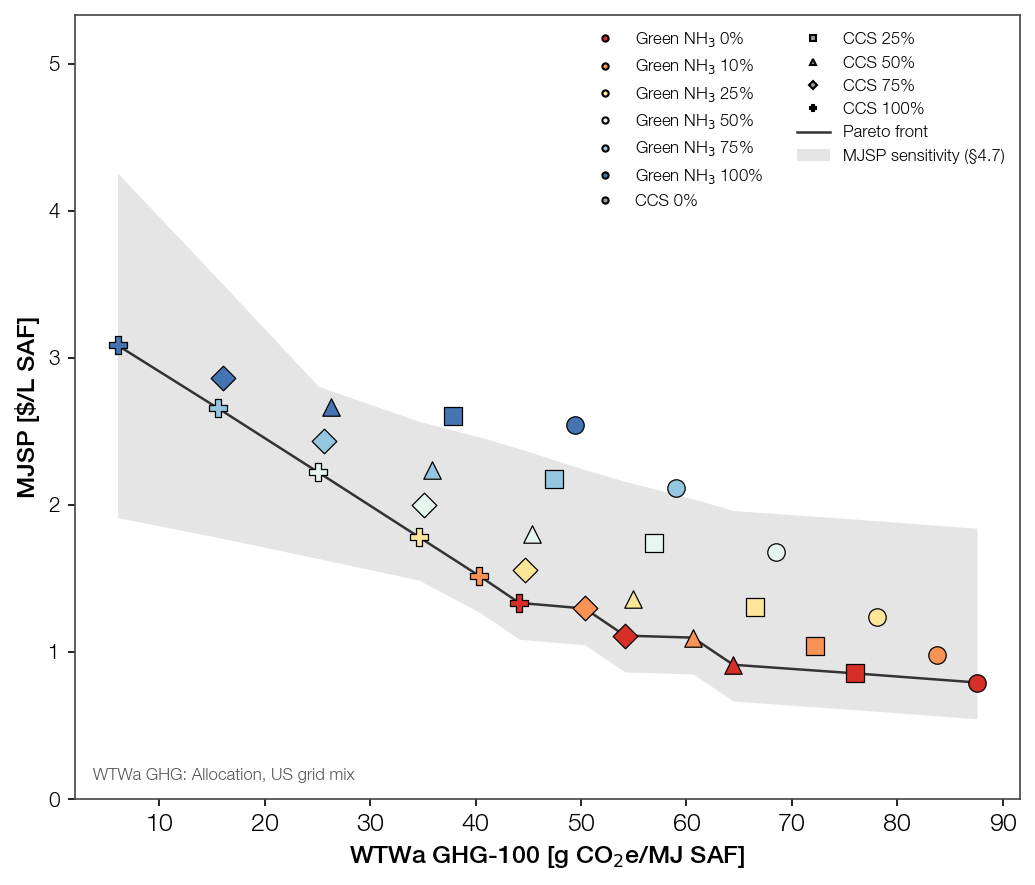
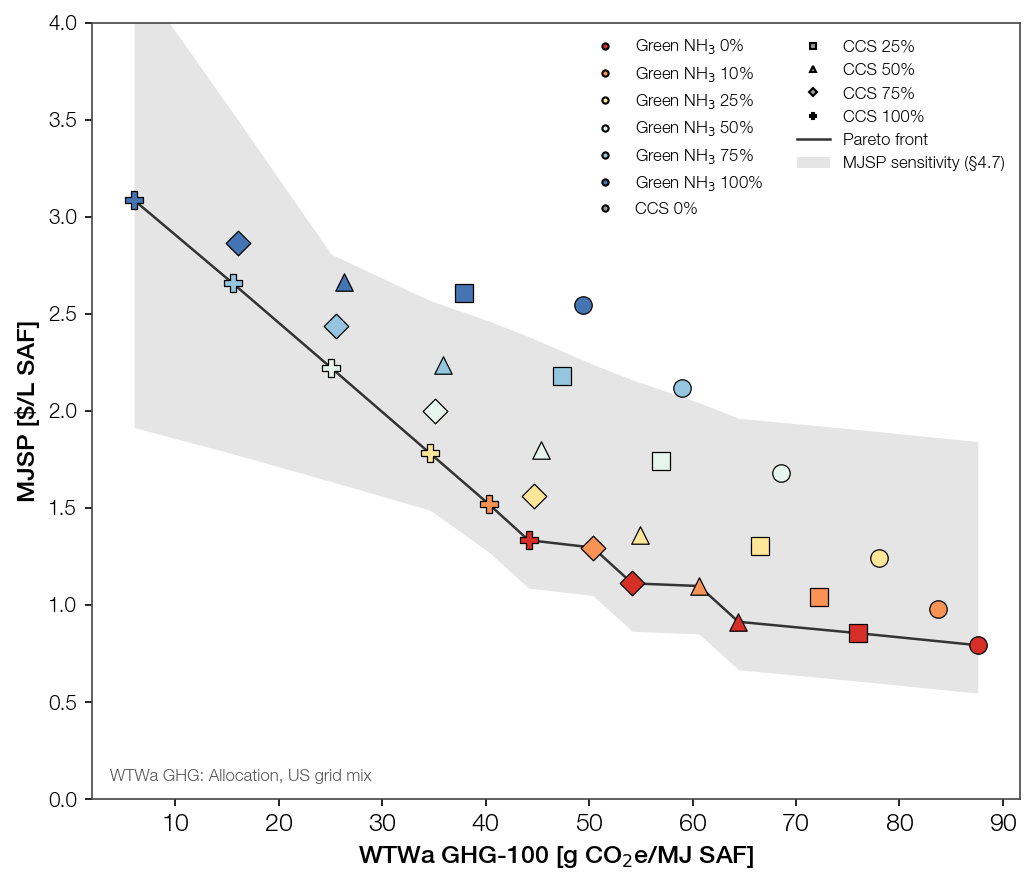
Add CCS 25% vs Green NH3 25% MJSP tornado comparison
Split per-driver bar logic out of mjsp_error into mix_bars (single source
for the frontier band and the tornado panels); add tornado_compare drawing
grey-H2+CCS 25% vs Green NH3 25%, reusing tea_tornado.tornado.

diff --git a/tea_pareto_front.py b/tea_pareto_front.py
@@ -68,7 +68,7 @@ def mjsp(tea: TEA, a: float, c: float) -> float:
 # source of truth; adapted here to Mix frontier points (partial grey + partial ammonia).
 from tea_tornado import (H2_RANGE, ELEC_F, COPROD_F, CAPEX_PM,
                          CF_HOURS, TS_RANGE, TS_BASE, AMM_FEED_USD_L, AMM_P_BASE,
-                         AMM_PRICE, LB2KG, raw_costs)
+                         AMM_PRICE, LB2KG, raw_costs, tornado)
 
 
 def mix_row(tea: TEA, a: float, c: float) -> tuple[float, pd.Series, float]:
@@ -91,41 +91,67 @@ def rerun_mix(a: float, c: float, **knobs) -> float:
     return mix_row(t, a, c)[0]
 
 
-def mjsp_error(tea: TEA, a: float, c: float, h2_cost: float, h2_rate: float,
-               bio_cost: float, op: float) -> tuple[float, float, float]:
-    """(base, min, max) MJSP over the tornado drivers applicable to a Mix point.
-    Envelope of one-at-a-time swings; grey-H2 scales with (1-a), ammonia with a,
-    T&S/electricity/co-product/capacity re-run, biomass/CAPEX linear."""
+def mix_bars(tea: TEA, a: float, c: float, h2_cost: float, h2_rate: float,
+             bio_cost: float, op: float) -> tuple[float, list[tuple[str, float, float]]]:
+    """(base, per-driver tornado bars) for a Mix point. Bars = [(label, MJSP@low, MJSP@high)];
+    grey-H2 scales with (1-a), ammonia with a, T&S/electricity/co-product/capacity re-run,
+    biomass/CAPEX linear. Single source for both the frontier band and the tornado panels."""
     base, row, saf = mix_row(tea, a, c)
-    ends = [base]
+    bars: list[tuple[str, float, float]] = []
     # Biomass price range = supply-curve price-model span at this x10 plant (0.457 MMt/yr
     # SAF): FR-price floor 0.04865 $/lb (base) up to the galik supply-curve 0.05268 $/lb
     # (+8.3%). One-sided (FR is the floor); replaces the generic +-50% swing.
     d_bio = (BIO_PRICE_HI / BIO_PRICE_FR - 1.) * bio_cost * op / saf
-    ends += [base, base + d_bio]
+    bars.append(('Biomass +8.3%', base, base + d_bio))
     if a < 1:                                                    # gray H2 on the grey share
         p_kg = (h2_cost / h2_rate) / LB2KG
         h2_term = h2_cost * (1 - a) * op / saf
         lo, hi = H2_RANGE
-        ends += [base + (lo / p_kg - 1.) * h2_term, base + (hi / p_kg - 1.) * h2_term]
+        bars.append(('Gray H₂ 1–4 $/kg', base + (lo / p_kg - 1.) * h2_term, base + (hi / p_kg - 1.) * h2_term))
     if a > 0:                                                    # ammonia price on the ammonia share
         lo, hi = AMM_PRICE
-        ends += [base + a * AMM_FEED_USD_L * (lo / AMM_P_BASE - 1.),
-                 base + a * AMM_FEED_USD_L * (hi / AMM_P_BASE - 1.)]
-    ends += [base - CAPEX_PM * row['capital investment'],        # CAPEX +-30% (Mix cap inv, incl CCS)
-             base + CAPEX_PM * row['capital investment']]
+        bars.append(('Ammonia 0.12–0.45 $/lb', base + a * AMM_FEED_USD_L * (lo / AMM_P_BASE - 1.),
+                     base + a * AMM_FEED_USD_L * (hi / AMM_P_BASE - 1.)))
+    bars.append(('CAPEX ±30%', base - CAPEX_PM * row['capital investment'],   # Mix cap inv, incl CCS
+                 base + CAPEX_PM * row['capital investment']))
     if c > 0:                                                    # CO2 T&S 4-45 $/t (CCS only)
         lo, hi = TS_RANGE
-        ends += [rerun_mix(a, c, co2_ts_usd_per_ton=lo), rerun_mix(a, c, co2_ts_usd_per_ton=hi)]
+        bars.append(('CO₂ T&S 4–45 $/t', rerun_mix(a, c, co2_ts_usd_per_ton=lo), rerun_mix(a, c, co2_ts_usd_per_ton=hi)))
     e_lo, e_hi = ELEC_F                                          # electricity +-30%
-    ends += [rerun_mix(a, c, elec_price_usd_per_mmbtu=19.05 * e_lo),
-             rerun_mix(a, c, elec_price_usd_per_mmbtu=19.05 * e_hi)]
+    bars.append(('Electricity ±30%', rerun_mix(a, c, elec_price_usd_per_mmbtu=19.05 * e_lo),
+                 rerun_mix(a, c, elec_price_usd_per_mmbtu=19.05 * e_hi)))
     c_lo, c_hi = COPROD_F                                        # co-product +-20%
-    ends += [rerun_mix(a, c, product_price_stream={'316GAS': 0.75757 * c_lo, '326SAF': 0, '336DIES': 0.6 * c_lo}),
-             rerun_mix(a, c, product_price_stream={'316GAS': 0.75757 * c_hi, '326SAF': 0, '336DIES': 0.6 * c_hi})]
+    bars.append(('Co-product ±20%',
+                 rerun_mix(a, c, product_price_stream={'316GAS': 0.75757 * c_lo, '326SAF': 0, '336DIES': 0.6 * c_lo}),
+                 rerun_mix(a, c, product_price_stream={'316GAS': 0.75757 * c_hi, '326SAF': 0, '336DIES': 0.6 * c_hi})))
     h85, h91 = CF_HOURS                                          # capacity 85% / 91%
-    ends += [rerun_mix(a, c, operation_hr=h85), rerun_mix(a, c, operation_hr=h91)]
+    bars.append(('Capacity 85% / 91%', rerun_mix(a, c, operation_hr=h85), rerun_mix(a, c, operation_hr=h91)))
+    return base, bars
+
+
+def mjsp_error(tea: TEA, a: float, c: float, h2_cost: float, h2_rate: float,
+               bio_cost: float, op: float) -> tuple[float, float, float]:
+    """(base, min, max) MJSP envelope over the tornado drivers of a Mix point."""
+    base, bars = mix_bars(tea, a, c, h2_cost, h2_rate, bio_cost, op)
+    ends = [base] + [v for _, lo, hi in bars for v in (lo, hi)]
     return base, min(ends), max(ends)
+
+
+def tornado_compare(tea: TEA, h2_cost: float, h2_rate: float, bio_cost: float, op: float) -> None:
+    """Two-panel MJSP tornado: the two ~25%-decarbonization frontier points reviewers weigh
+    against each other -- grey-H2 + CCS 25% (a=0, c=0.25) vs Green NH3 25% (a=0.25, c=0)."""
+    cases = [(0.0, 0.25, 'Grey H₂ + CCS 25%'), (0.25, 0.0, 'Green NH₃ 25%')]
+    fig, axes = plt.subplots(1, 2, figsize=(14, 5), sharex=True)   # shared x -> spans comparable
+    for ax, (a, c, name) in zip(axes, cases):
+        base, bars = mix_bars(tea, a, c, h2_cost, h2_rate, bio_cost, op)
+        assert base > 0 and bars, name
+        tornado(ax, base, bars, f'{name}  (base {base:.2f})')
+    from matplotlib.patches import Patch
+    fig.legend(handles=[Patch(color='#4575b4', label='low input'),
+                        Patch(color='#d73027', label='high input')],
+               loc='upper center', ncol=2, framealpha=0.)
+    fig.tight_layout(rect=(0, 0, 1, 0.95))
+    fig.savefig(os.path.join('Figure', 'tornado_ccs25_vs_nh325.png'), dpi=150)
 
 
 def pareto_mask(pts: pd.DataFrame) -> pd.Series:
@@ -217,7 +243,7 @@ def main() -> None:
     # GHG basis stated on-plot to remove ambiguity (US grid mix, Allocation)
     ax.text(0.02, 0.02, 'WTWa GHG: Allocation, US grid mix', transform=ax.transAxes,
             ha='left', va='bottom', fontsize=8, color='#555555')
-    ax.set_ylim(0, ax.get_ylim()[1] * 1.2)
+    ax.set_ylim(0, 4)  # fix y-axis top at $4/L SAF
 
     os.makedirs('Figure', exist_ok=True)
     fig.savefig(os.path.join('Figure', 'pareto_front.png'), dpi=150)
@@ -244,6 +270,8 @@ def main() -> None:
     print('\nPareto front with CO2 abatement cost + MJSP sensitivity range (§4.7):')
     print(front[['amm_scale', 'ccs', 'ghg', 'mjsp', 'mjsp_lo', 'mjsp_hi', 'abatement']].round(2).to_string(index=False))
     front.round(4).to_excel(os.path.join('Result', 'pareto_front_sensitivity.xlsx'), index=False)
+
+    tornado_compare(tea, h2_cost, h2_rate, bio_cost, op)   # CCS 25% vs Green NH3 25% panels
 
     # self-checks: base positive; GHG base matches report ~87.57; more CCS lowers GHG at fixed NH3;
     # more NH3 lowers GHG at fixed CCS; front is non-empty and trades off (ghg up <-> mjsp down).

diff --git a/_Pareto_Front.md b/_Pareto_Front.md
@@ -167,6 +167,22 @@ Bar = envelope (min…max) of the one-at-a-time swings. Table `Result/pareto_fro
 
 ## Log history
 
+### 2026-09-29 (update 4)
+
+**Discussion**
+- Added a two-panel MJSP tornado comparing the two ~25%-decarbonization frontier points reviewers
+  weigh against each other: grey-H₂ + CCS 25% (a=0, c=0.25, the compliance floor) vs Green NH₃ 25%
+  (a=0.25, c=0). Shared x-axis so driver spans are directly comparable across the two routes.
+
+**Code**
+- `tea_pareto_front.py` — split the per-driver tornado logic out of `mjsp_error` into new `mix_bars`
+  (returns labeled `[(driver, MJSP@low, MJSP@high)]`); `mjsp_error` now derives its min/max envelope
+  from `mix_bars`, so the frontier band and the tornado panels share one source. New `tornado_compare`
+  reuses `tea_tornado.tornado` and writes `Figure/tornado_ccs25_vs_nh325.png`. Self-checks pass.
+
+**Open**
+- None new. Manuscript SI abatement-reference wording (update 3) still outstanding.
+
 ### 2026-09-29 (update 3)
 
 **Discussion**
